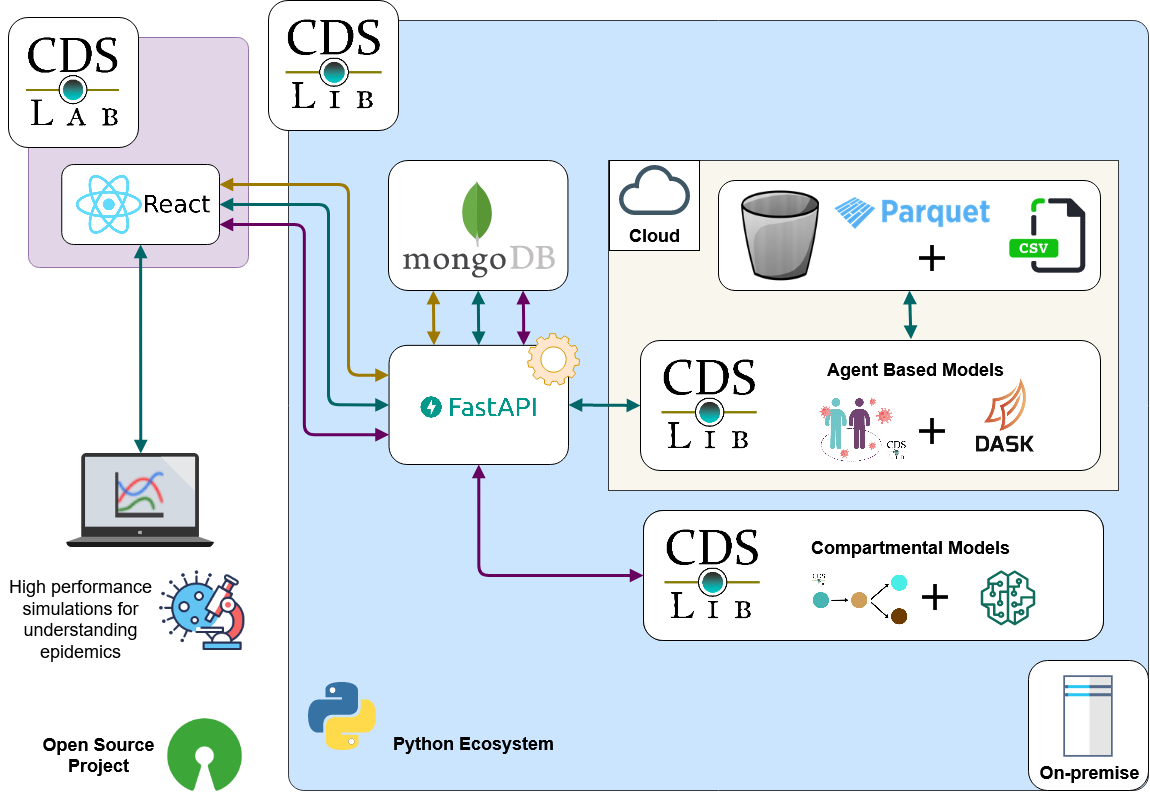
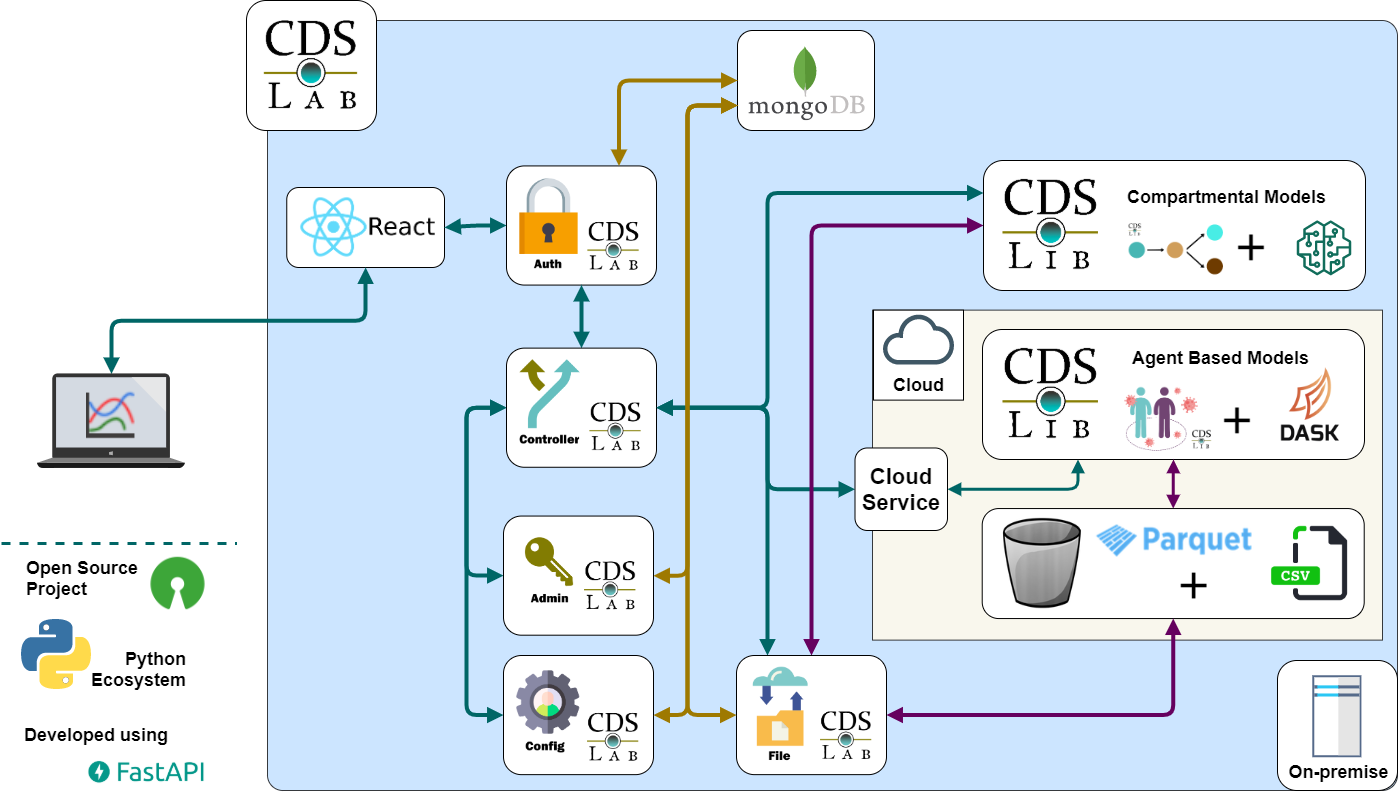
Updating architectural diagram

diff --git a/README.md b/README.md
@@ -20,6 +20,8 @@ decision makers to take decisions based in the most advanced models.
   - [Available models](#available-models)
     - [CDSLib_agents](#cdslib_agents)
     - [CDSLib_cmodels](#cdslib_cmodels)
+  - [CDSLab](#cdslab)
+    - [CDSLab_auth](#cdslab_auth)
   - [How to contribute?](#how-to-contribute)
   - [Architecture diagram](#architecture-diagram)
   - [History](#history)
@@ -42,6 +44,15 @@ scenarios, from small compartments to cities.
 The [CDSLib_cmodels](https://github.com/fenfisdi/cdslib_cmodels) module
 implements a dynamical deterministic model describing epidemics following
 a SEIRV model.
+
+## CDSLab
+
+Web application
+
+### CDSLab_auth
+
+The [CDSLab_auth](https://github.com/fenfisdi/cdslab_auth) module
+implements an authentication API for CDSLab
 
 ## How to contribute?
 
